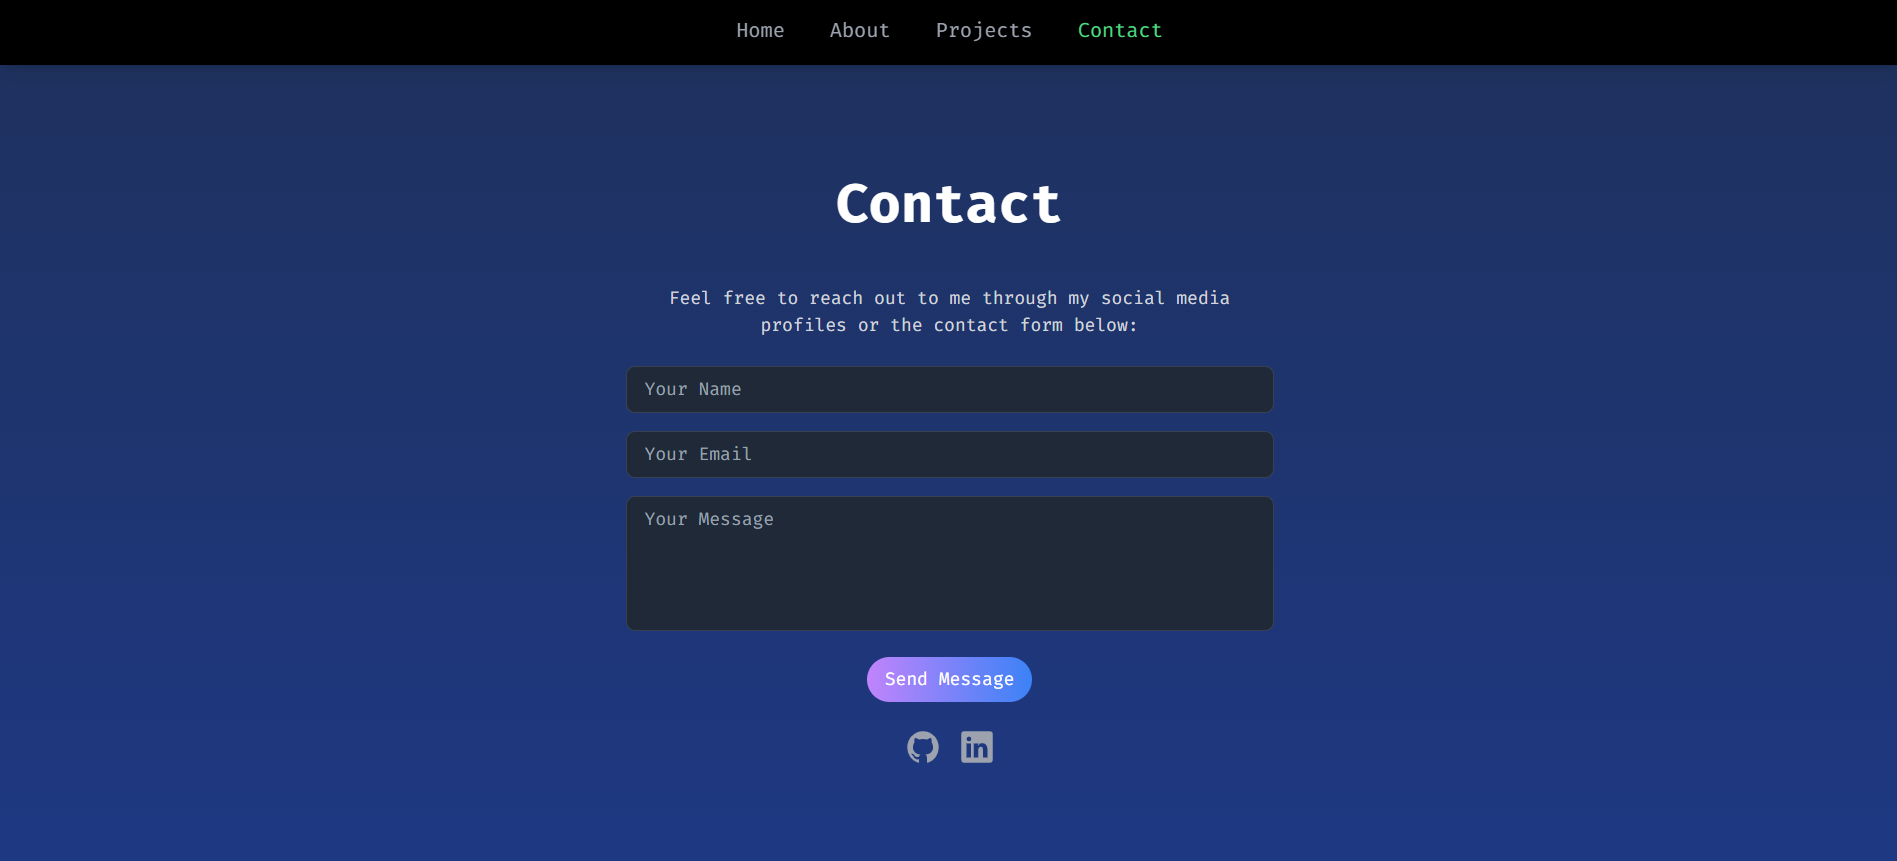
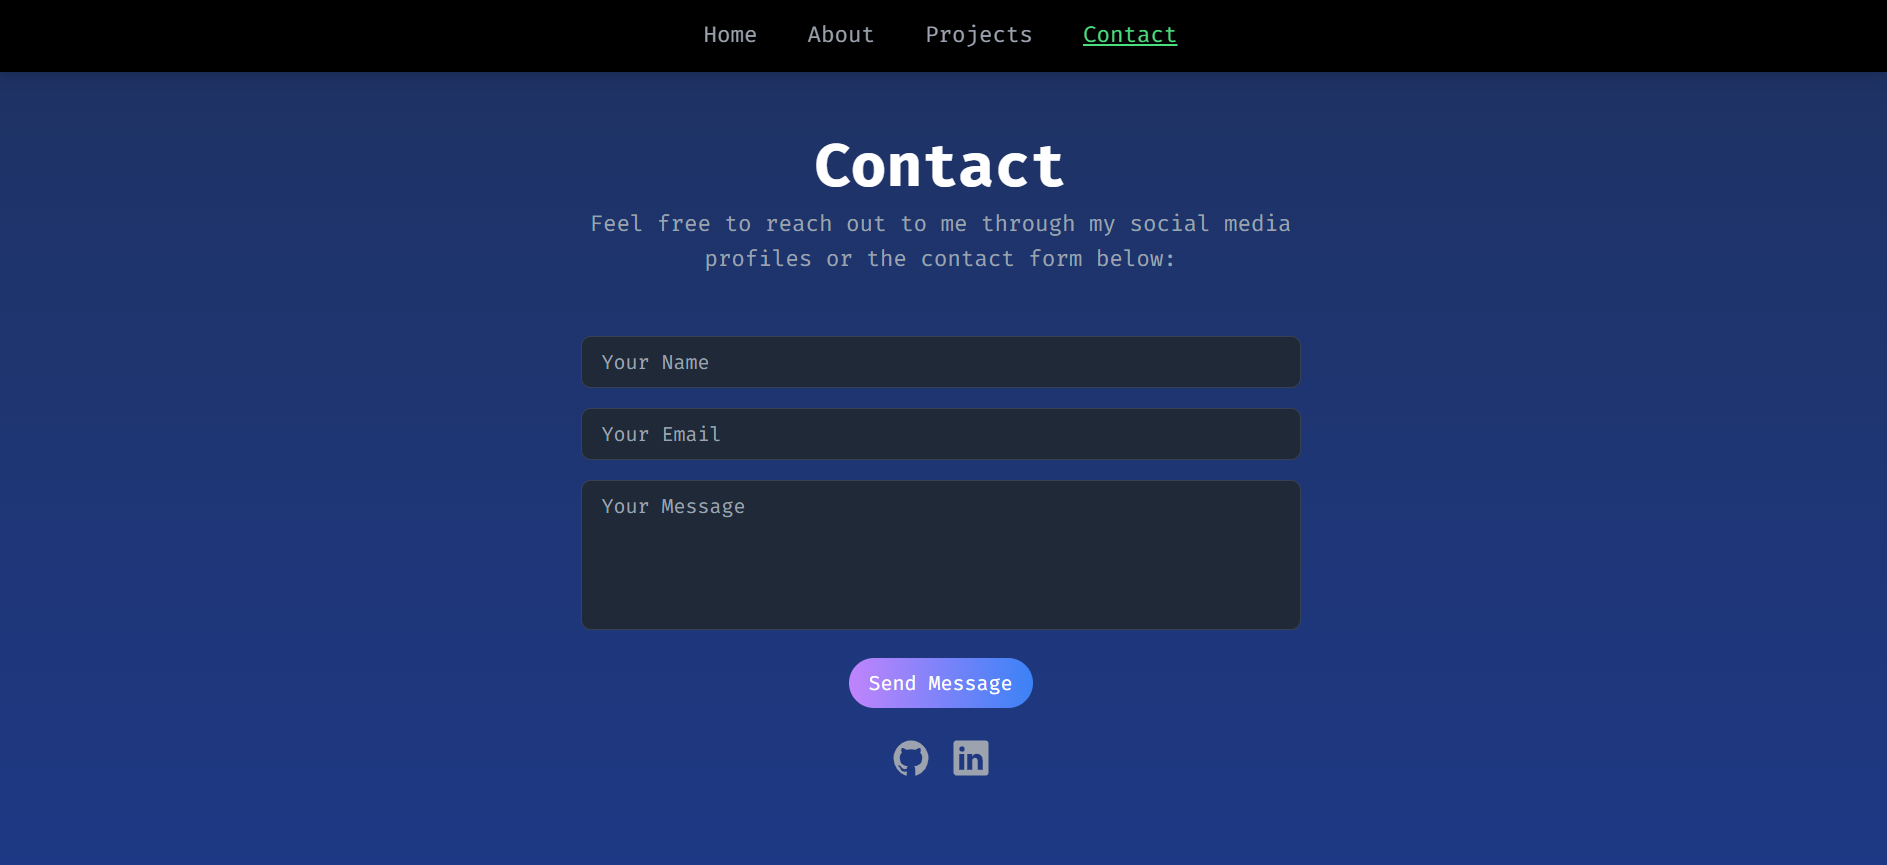
Improve design

Changed region(s): [[0.3074, 0.3322, 0.7069, 0.9059], [0.0, 0.0302, 1.0, 0.0906], [0.3074, 0.151, 0.6762, 0.302]]

diff --git a/client/src/components/NavBar/NavBar.jsx b/client/src/components/NavBar/NavBar.jsx
@@ -1,5 +1,7 @@
 import React, { useState, useRef, useEffect } from 'react';
 
+const sections = ['hero', 'about', 'projects', 'contact'];
+
 const NavBar = () => {
     const [isMenuOpen, setIsMenuOpen] = useState(false);
     const [activeSection, setActiveSection] = useState('hero');
@@ -28,7 +30,6 @@ const NavBar = () => {
 
     useEffect(() => {
         const handleScroll = () => {
-            const sections = ['hero', 'about', 'projects', 'contact'];
             let currentSection = '';
 
             sections.forEach(id => {
@@ -44,7 +45,6 @@ const NavBar = () => {
 
             if (currentSection && currentSection !== activeSection) {
                 setActiveSection(currentSection);
-                console.log(currentSection)
             }
         };
 
@@ -83,15 +83,15 @@ const NavBar = () => {
     }, [isMenuOpen]);
 
     return (
-        <nav className="fixed top-0 left-0 w-full bg-black py-4 z-30 shadow-lg">
+        <nav className="fixed top-0 left-0 w-full bg-black py-4 z-30 shadow-lg" role="navigation">
             <div className="container mx-auto flex items-center justify-between">
                 {/* Desktop Menu */}
                 <div className="hidden md:flex md:justify-center w-full space-x-10">
-                    {['hero', 'about', 'projects', 'contact'].map(section => (
+                    {sections.map(section => (
                         <a
                             key={section}
                             onClick={() => handleLinkClick(section)}
-                            className={`cursor-pointer text-lg ${activeSection === section ? 'text-green-400' : 'text-gray-400'} hover:text-green-400 transition duration-300`}
+                            className={`cursor-pointer text-lg ${activeSection === section ? 'text-green-400 underline' : 'text-gray-400'} hover:text-green-400 transition duration-300`}
                         >
                             {section === 'hero' ? 'Home' : section.charAt(0).toUpperCase() + section.slice(1)}
                         </a>
@@ -107,15 +107,9 @@ const NavBar = () => {
                         aria-controls="mobile-menu"
                         ref={burgerRef}
                     >
-                        <div
-                            className={`w-6 h-0.5 bg-white transition-transform duration-300 ease-in-out ${isMenuOpen ? 'transform rotate-45 translate-y-1.5' : ''}`}
-                        ></div>
-                        <div
-                            className={`w-6 h-0.5 bg-white transition-opacity duration-300 ease-in-out ${isMenuOpen ? 'opacity-0' : ''} ${!isMenuOpen && 'mt-1.5'}`}
-                        ></div>
-                        <div
-                            className={`w-6 h-0.5 bg-white transition-transform duration-300 ease-in-out ${isMenuOpen ? 'transform -rotate-45 -translate-y-1.5' : ''}`}
-                        ></div>
+                        <div className={`w-6 h-0.5 bg-white transition-transform duration-300 ease-in-out ${isMenuOpen ? 'transform rotate-45 translate-y-1.5' : ''}`}></div>
+                        <div className={`w-6 h-0.5 bg-white transition-opacity duration-300 ease-in-out ${isMenuOpen ? 'opacity-0' : ''} ${!isMenuOpen && 'mt-1.5'}`}></div>
+                        <div className={`w-6 h-0.5 bg-white transition-transform duration-300 ease-in-out ${isMenuOpen ? 'transform -rotate-45 -translate-y-1.5' : ''}`}></div>
                     </button>
                 </div>
             </div>
@@ -137,11 +131,11 @@ const NavBar = () => {
                 className={`md:hidden fixed inset-0 bg-black z-30 transition-transform duration-300 ease-in-out ${isMenuOpen ? 'transform translate-y-0 opacity-100' : 'transform -translate-y-full opacity-0 pointer-events-none'}`}
             >
                 <div className="flex flex-col items-center justify-center h-full">
-                    {['hero', 'about', 'projects', 'contact'].map(section => (
+                    {sections.map(section => (
                         <a
                             key={section}
                             onClick={() => handleLinkClick(section)}
-                            className={`block text-lg cursor-pointer ${activeSection === section ? 'text-green-400' : 'text-gray-400'} hover:text-green-400 transition duration-300 py-2 px-4`}
+                            className={`block text-lg cursor-pointer ${activeSection === section ? 'text-green-400 underline' : 'text-gray-400'} hover:text-green-400 transition duration-300 py-2 px-4`}
                         >
                             {section === 'hero' ? 'Home' : section.charAt(0).toUpperCase() + section.slice(1)}
                         </a>

diff --git a/client/src/components/About/About.jsx b/client/src/components/About/About.jsx
@@ -3,13 +3,13 @@ import Technologies from './Technologies';
 
 const About = () => {
     return (
-        <section id="about" className="flex flex-col items-center justify-start text-gray-300 px-4 py-20 md:py-24"> {/* Consistent padding */}
-            <div className="flex flex-col md:flex-row items-center justify-between w-full max-w-5xl space-y-8 md:space-y-0 md:space-x-10"> {/* Adjusted spacing */}
+        <section id="about" className="flex flex-col items-center justify-start text-gray-300 px-4 py-20 md:py-24">
+            <div className="flex flex-col md:flex-row items-start justify-between w-full max-w-5xl space-y-8 md:space-y-0 md:space-x-10">
                 {/* Left Column */}
-                <div className="text-left md:flex-1 space-y-4">
-                    <h2 className="text-4xl md:text-5xl font-bold text-white">About Me</h2>
+                <div className="text-center md:flex-1 space-y-4 flex flex-col items-center">
+                    <h2 className="text-4xl md:text-4xl font-bold text-white">About Me</h2>
                     <p className="text-base md:text-lg leading-relaxed">
-                        My journey in the world of coding began at <a href="https://softuni.bg" className="text-blue-400 hover:underline" target="_blank" rel="noopener noreferrer">SoftUni</a> in Sofia, Bulgaria, where I honed my skills in JavaScript, ReactJS, and various web technologies. With a strong foundation in front-end and back-end development, I'm driven by a desire to solve problems and continuously learn.
+                        My journey in the world of coding began at <a href="https://softuni.bg" className="text-blue-400 hover:underline" target="_blank" rel="noopener noreferrer">SoftUni</a>, where I honed my skills in JavaScript, ReactJS, and various web technologies. With a solid foundation in front-end and back-end development, I'm driven by a desire to solve problems and continuously learn.
                     </p>
                     <p className="text-base md:text-lg leading-relaxed">
                         In addition to my technical expertise, I bring excellent communication skills and a positive attitude. I'm excited to bring my diverse background and technical skills to the world of software engineering.
@@ -23,9 +23,9 @@ const About = () => {
                 </div>
 
                 {/* Right Column */}
-                <div className="relative mt-8 md:mt-0 md:flex-1 flex justify-center md:justify-end"> {/* Adjusted margin */}
-                    <div className="text-left md:text-right space-y-4">
-                        <h3 className="text-4xl md:text-5xl font-bold text-white">Technologies I'm Familiar With</h3>
+                <div className="relative mt-8 md:mt-0 md:flex-1 flex justify-center md:justify-start"> {/* Adjusted justification */}
+                    <div className="text-center md:text-center space-y-4">
+                        <h3 className="text-4xl md:text-4xl font-bold text-white">Technologies I'm Familiar With</h3>
                         <Technologies />
                     </div>
                 </div>

diff --git a/client/src/components/Hero/Hero.jsx b/client/src/components/Hero/Hero.jsx
@@ -2,13 +2,13 @@ import React from 'react';
 
 const Hero = () => {
     return (
-        <section id="hero" className="flex flex-col items-center justify-start text-gray-300 px-4 py-20 md:py-24"> {/* Consistent padding */}
-            <div className="flex flex-col md:flex-row items-center justify-between w-full max-w-5xl space-y-8 md:space-y-0"> {/* Adjusted spacing */}
-                <div className="text-left space-y-4 md:flex-1">
-                    <p className="text-green-400 text-base md:text-lg">Hi, my name is</p> {/* Removed unnecessary margin and padding adjustments */}
+        <section id="hero" className="flex flex-col items-center justify-start text-gray-300 px-4 py-20 md:py-24">
+            <div className="flex flex-col md:flex-row items-center justify-between w-full max-w-5xl space-y-8 md:space-y-0">
+                <div className="text-left space-y-4 md:flex-1 flex flex-col items-start justify-center">
+                    <p className="text-green-400 text-base md:text-lg">Hi, my name is</p>
                     <h1 className="text-4xl md:text-5xl font-bold">Ivelin Shenkov</h1>
                     <h2 className="text-xl md:text-2xl font-semibold text-gray-400">
-                        A passionate and enthusiastic software engineer and web developer.
+                        A passionate and enthusiastic Software Engineer / Web Developer.
                     </h2>
                     <div className="flex justify-start mt-8">
                         <a
@@ -20,7 +20,7 @@ const Hero = () => {
                         </a>
                     </div>
                 </div>
-                <div className="relative mt-8 md:mt-0 md:flex-1 flex justify-center md:justify-end"> {/* Adjusted mt-8 for better balance */}
+                <div className="relative mt-8 md:mt-0 md:flex-1 flex justify-center md:justify-end">
                     <img
                         src="/assets/profilePic.jpg"
                         alt="Ivelin Shenkov"

diff --git a/client/src/pages/Home/Home.jsx b/client/src/pages/Home/Home.jsx
@@ -8,18 +8,18 @@ import Footer from '../../components/Footer/Footer';
 
 const Home = () => {
     return (
-        <div className="flex flex-col space-y-0">
+        <div className="flex flex-col space-y-4"> {/* Added spacing between sections */}
             <NavBar />
-            <section id="hero" className="flex flex-col items-center justify-start text-gray-300 px-4 py-20 md:py-24"> {/* Adjusted py-20 for consistency */}
+            <section id="hero" className="h-screen flex justify-center items-center"> {/* Changed to h-screen */}
                 <Hero />
             </section>
-            <section id="about" className="flex flex-col items-center justify-start text-gray-300 px-4 py-20 md:py-24"> {/* Adjusted py-20 for consistency */}
+            <section id="about" className="min-h-screen flex justify-center items-center" aria-label="About Me">
                 <About />
             </section>
-            <section id="projects" className="flex flex-col items-center justify-start text-gray-300 px-4 py-20 md:py-24"> {/* Adjusted py-20 for consistency */}
+            <section id="projects" className="min-h-screen flex justify-center items-center" aria-label="Projects">
                 <ProjectsSection />
             </section>
-            <section id="contact" className="flex flex-col items-center justify-start text-gray-300 px-4 py-20 md:py-24"> {/* Adjusted py-20 for consistency */}
+            <section id="contact" className="min-h-screen flex justify-center items-center" aria-label="Contact">
                 <ContactSection />
             </section>
             <Footer />

diff --git a/client/src/components/About/Technologies.jsx b/client/src/components/About/Technologies.jsx
@@ -13,11 +13,11 @@ const Technologies = () => {
         { name: 'Vite', icon: <SiVite className="text-4xl" style={{ color: '#646CFF' }} />, url: 'https://vitejs.dev/' },
         { name: 'MongoDB', icon: <SiMongodb className="text-4xl" style={{ color: '#47A248' }} />, url: 'https://www.mongodb.com/' },
         { name: 'OpenAI', icon: <SiOpenai className="text-4xl" style={{ color: '#412991' }} />, url: 'https://www.openai.com/' },
-        { name: 'Tailwind CSS', icon: <SiTailwindcss className="text-4xl" style={{ color: '#38B2AC' }} />, url: 'https://tailwindcss.com/' }
+        { name: 'TailwindCSS', icon: <SiTailwindcss className="text-4xl" style={{ color: '#38B2AC' }} />, url: 'https://tailwindcss.com/' }
     ];
 
     return (
-        <div className="p-4">
+        <div className="p-4 flex flex-col items-center">
             <div className="grid grid-cols-2 sm:grid-cols-3 lg:grid-cols-4 gap-8">
                 {technologies.map((tech, index) => (
                     <a
@@ -29,7 +29,7 @@ const Technologies = () => {
                         title={tech.name}
                     >
                         {tech.icon}
-                        <span className="mt-2 text-sm text-gray-300">{tech.name}</span>
+                        <span className="mt-2 text-sm text-gray-300 text-center">{tech.name}</span> {/* Added text-center */}
                     </a>
                 ))}
             </div>

diff --git a/client/src/components/Contact/Contact.jsx b/client/src/components/Contact/Contact.jsx
@@ -37,12 +37,12 @@ const ContactSection = () => {
     return (
         <section id="contact" className="flex flex-col items-center justify-center text-gray-300 px-4 py-16">
             <div className="text-center max-w-xl space-y-6">
+                {/* Adjusted Header */}
                 <div className="w-full text-center mb-12">
-                    <h2 className="text-4xl md:text-5xl font-bold text-white">Contact</h2>
+                    <h2 className="text-4xl md:text-5xl font-bold text-white">Contact</h2> {/* Header style matching Projects */}
+                    <p className="mt-2 text-lg text-gray-400">Feel free to reach out to me through my social media profiles or the contact form below:</p> {/* Paragraph style matching Projects */}
                 </div>
-                <p className="leading-relaxed text-sm md:text-base mb-6">
-                    Feel free to reach out to me through my social media profiles or the contact form below:
-                </p>
+
                 <form className="space-y-4" onSubmit={handleSubmit}>
                     <div>
                         <input

diff --git a/client/src/components/Projects/ProjectCard.jsx b/client/src/components/Projects/ProjectCard.jsx
@@ -7,7 +7,7 @@ const ProjectCard = ({ project }) => {
                 <img
                     src={`https://opengraph.githubassets.com/1/${project.full_name}`}
                     alt={project.name}
-                    className="absolute inset-0 w-full h-full object-cover"
+                    className="absolute inset-0 w-full h-full object-cover transition-transform duration-300 transform hover:scale-105"
                 />
             </div>
             <h3 className="text-lg font-semibold text-green-400 mb-2 truncate">{project.name}</h3>
@@ -28,7 +28,7 @@ const ProjectCard = ({ project }) => {
                         rel="noopener noreferrer"
                         className="inline-flex items-center justify-center border border-green-500 text-green-400 px-2 py-1 rounded-full text-xs hover:bg-green-700 transition-colors"
                     >
-                        <span className="text-center">Live preview</span>
+                        <span className="text-center">Live Preview</span>
                     </a>
                 )}
             </div>

diff --git a/client/src/components/Projects/ProjectsSection.jsx b/client/src/components/Projects/ProjectsSection.jsx
@@ -5,7 +5,8 @@ const ProjectsSection = () => {
     return (
         <section id="projects" className="flex flex-col items-center justify-start text-gray-300 px-4 py-16">
             <div className="w-full text-center mb-12">
-                <h2 className="text-4xl md:text-5xl font-bold text-white">Projects</h2>
+                <h2 className="text-4xl md:text-5xl font-bold text-white">Projects</h2> {/* Increased heading size on md */}
+                <p className="mt-2 text-lg text-gray-400">Here are some of my latest works:</p> {/* Added description */}
             </div>
             <div className="w-full max-w-5xl">
                 <Projects />

diff --git a/client/src/App.jsx b/client/src/App.jsx
@@ -3,7 +3,7 @@ import Home from './pages/Home/Home';
 
 function App() {
     return (
-        <div className="min-h-screen flex flex-col bg-gradient-to-b from-black via-gray-800 to-blue-900 fade-in">
+        <div className="min-h-screen flex flex-col bg-gradient-to-b from-black via-gray-800 to-blue-900 fade-in" role="main">
             <Home />
         </div>
     );

diff --git a/client/src/components/Footer/Footer.jsx b/client/src/components/Footer/Footer.jsx
@@ -1,6 +1,6 @@
 const Footer = () => {
     return (
-        <footer className="bg-gray-800 text-gray-300 py-6">
+        <footer className="bg-black text-gray-300 py-6">
             <div className="container mx-auto text-center">
                 <p className="text-gray-400 text-sm">
                     © {new Date().getFullYear()} iShenk Dev. All rights reserved.
